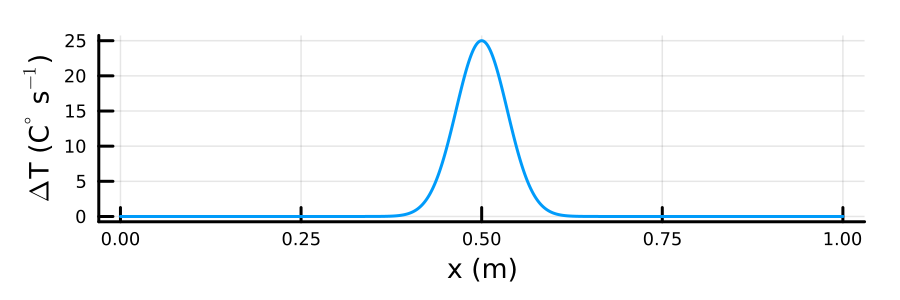
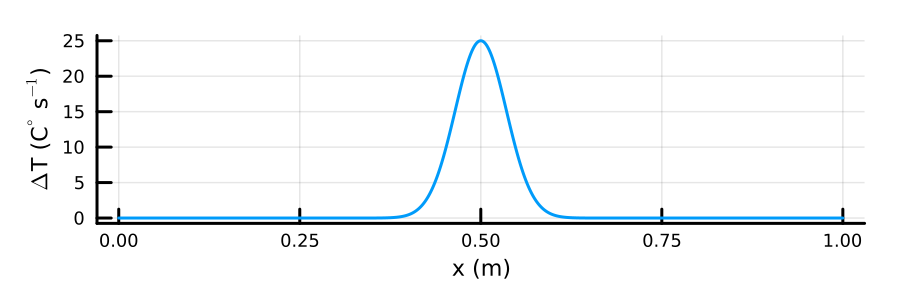
Made gaussian and animation images smaller

diff --git a/README.md b/README.md
@@ -28,7 +28,7 @@ these can usually be installed by running the command
 sudo apt install gcc build-essential
 ```
 
-The program also makes use of the development version of the following external libraries:
+The program also makes use of the development packages of the following external libraries:
 
 * [GNU Scientific Library](https://www.gnu.org/software/gsl) for dense linear algebra
 * [Suitesparse](https://github.com/DrTimothyAldenDavis/SuiteSparse) for sparse linear algebra
